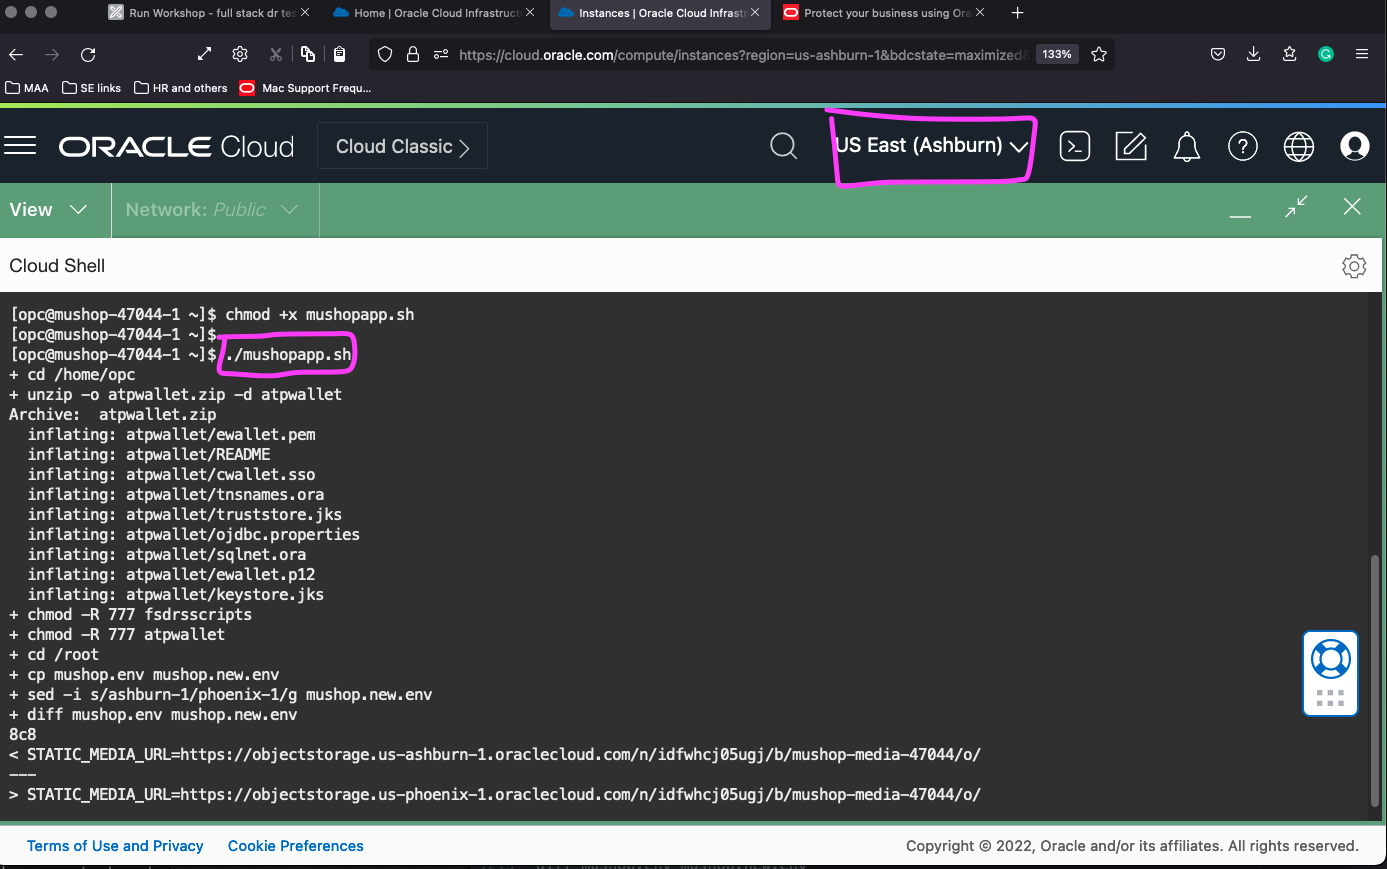
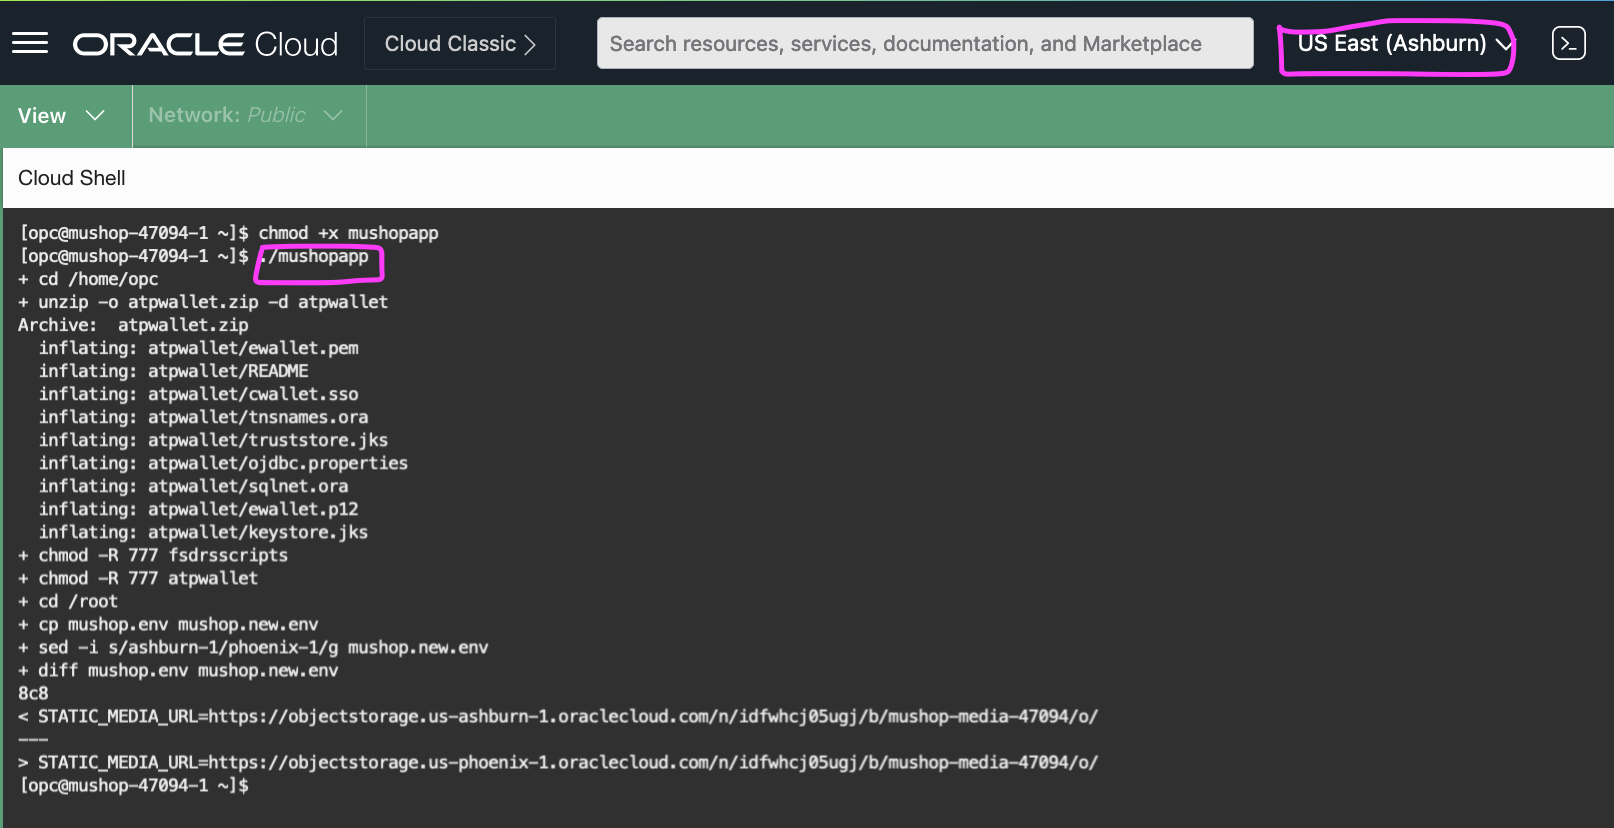
FSDRS 01st Sep
FSDRS 01st Sep

diff --git a/oci-fullstackdrs/pre-switchover/pre-switchover.md b/oci-fullstackdrs/pre-switchover/pre-switchover.md
@@ -1,16 +1,16 @@
 # **Prepare the environments for using the Full Stack DR Service**
 
-## Introduction
+## Introduction:
 
-In this lab, we will download Autonomous Database Wallet and the prepare the MuShop application virtual machines which are required to work with Full Stack DR Service
+In this lab, download Autonomous Database Wallet and prepare the MuShop application virtual machines, which are required to work with Full Stack DR Service
 
 Estimated Lab Time: 10 Minutes
 
-Watch the video below for a quick walk through of the lab
+Watch the video below for a quick walk-through of the lab.
 
 [](youtube:6Dp49VXqjtQ)
 
-### Objectives
+### Objectives:
 
 - Download Autonomous Database Wallet using Cloud Shell and transfer the Wallet to application VM instances.
 - Connect to application VM instances and create application environment files
@@ -21,12 +21,12 @@ Watch the video below for a quick walk through of the lab
 
 1. Login into OCI Console with your provided Credentials. Primary region should be **Ashburn**.
 
-  ![](./images/ashburn-region.png " ")
+  ![ashburn console](./images/ashburn-region.png " ")
 
 2. Open the **Cloud Shell** using the icon next to the region.  If you get a policy error, ensure you have chosen the correct compartment which was assigned to you.
 
-  ![](./images/cloud-shell.png)
-  ![](./images/cloud-shell-1.png)
+  ![open cloud shell](./images/cloud-shell.png)
+  ![open cloud shell](./images/cloud-shell-1.png)
 
   The Cloud Shell opens after a few seconds and shows the **prompt**.
 
@@ -34,21 +34,21 @@ Watch the video below for a quick walk through of the lab
 
    From the Hamburger menu, select **Oracle Database**, then **Autonomous Transaction Processing**.
 
-  ![](./images/atp-menu.png)
+  ![ATP menu](./images/atp-menu.png)
 
   You should be able to see an ATP database, similar to below. Make sure who change to the compartment which was assigned to you.
 
-  ![](./images/atp-database.png)
+  ![ATP database](./images/atp-database.png)
 
   Click the ATP database which should have like **"MuShopDB-XXXXX"** and in the Autonomous Database Information tab, copy the OCID of the ATP database and keep it safe. This is required for downloading the wallet in the next step.
 
-  ![](./images/atp-ocid.png)
+  ![ATP OCID](./images/atp-ocid.png)
 
 4. Download the ATP Wallet for this lab using the Cloud Shell. Switch to the first tab of your browser, where Cloud Shell was initially opened. In case if the Cloud Shell got disconnected, reconnect it again.
 
    You can maximize the Cloud Shell view and restore it as your requirements. For better viewing, you can use maximize option.
 
-   ![](./images/cloud-max.png)
+   ![Cloud Shell Maximize](./images/cloud-max.png)
 
    **Make sure to modify the ATP database OCID for your database in the below command.You should replace the OCID after --autonomous-database-id  with your values which was captured in Step 3**
 
@@ -58,15 +58,15 @@ Watch the video below for a quick walk through of the lab
 
     Copy the command and execute in Cloud Shell prompt.You should be able to see the Wallet file which was downloaded. Verify that using the list command ls -ltr as provided in the screenshot.
 
-   ![](./images/atp-wallet-cs.png)
+   ![ATP Wallet](./images/atp-wallet-cs.png)
 
-5. Download the private key for the Oracle Cloudworld LiveLab using the below command in the Cloud Shell.
+5. Download the private key for connecting to MuShop compute VM's using the below command in the Cloud Shell.
 
     ````
     <copy>wget http://bit.ly/mushopll</copy>
     ````
 
-    ![](./images/mushopll-key.png)
+    ![Mushop privatekey](./images/mushopll-key.png)
 
 6. Change the permission of the private key to `0600` in in the Cloud Shell
 
@@ -76,13 +76,13 @@ Watch the video below for a quick walk through of the lab
 
 7. Use the other tab of the browser, From the Hamburger menu, select **Compute**, then **Instances**. Verify the region as **Ashburn**
 
-    ![](./images/compute-navigate.png)
+    ![Compute navigation](./images/compute-navigate.png)
 
     Gather the Public IP from the two MuShop application instances. **mushop-xxxxx-0  -- Node 0** and **mushop-xxxxx-1  -- Node 1**
 
-    ![](./images/compute-publicip.png)
+    ![Copy publicip](./images/compute-publicip.png)
 
-8. Scp (Secure copy) the ATP Wallet to MuShop Application compute instances (both Node 0 and Node 1)
+8. Scp (Secure copy) the ATP Wallet to MuShop Application compute instances (both mushop-xxxxx-0 and mushop-xxxxx-1 )
 
     ````
     <copy>scp -i mushopll atpwallet.zip opc@publicipnode0:/home/opc</copy>
@@ -94,9 +94,9 @@ Watch the video below for a quick walk through of the lab
 
 Replace `publicipnode0` and `publicipnode1` with the public IP address of both mushop-xxxxx-0 and mushop-xxxxx-1 respectively in the scp commands.
 
-   Execute the scp commands in the cloud shell and while it prompts for confirmation key in as yes. Make sure the ATP Wallet is transferred successfully to both MuShop Applicaiton nodes.
+   Execute the scp commands in the cloud shell and while it prompts for confirmation key in as yes. Make sure the ATP Wallet is transferred successfully to both MuShop Application nodes.
 
-   ![](./images/wallet-compute.png)
+   ![Wallet copytovm](./images/wallet-compute.png)
 
 ## Task 2: Connect to application VM instances and customize the application environment files
 
@@ -107,27 +107,28 @@ Replace `publicipnode0` and `publicipnode1` with the public IP address of both m
     ````
    Once its connected, use ls -ltr command in the shell. You should be able to see the atpwallet.zip file which we transferred in previous step.
 
-   ![](./images/compute-node0.png)
+   ![list atp wallet](./images/compute-node0.png)
 
 2.  Download the script to run custom changes as part of MuShop application requirement
 
     ````
-    <copy>wget http://bit.ly/mushopapp.sh</copy>
+    <copy>wget http://bit.ly/mushopapp</copy>
     ````
+    ![get mushop script](./images/mushopll-node0.png)
 
-3. Provide execute permission for the mushopapp.sh script in /hom/opc directory. 
+3. Provide execute permission for the mushopapp script in /home/opc directory. 
 
     ````
-    <copy>chmod +x mushopapp.sh</copy>
+    <copy>chmod +x mushopapp</copy>
      ````
 
-4.  Execute the mushoapp.sh script
+4.  Execute the mushopapp script
 
     ````
-    <copy>./mushopapp.sh</copy>
+    <copy>./mushopapp</copy>
     ````
 
-    ![](./images/exec-mushapp-node0.png)
+    ![run mushop script](./images/exec-mushapp-node0.png)
 
 5. Connect to MuShop App VM mushop-xxxxx-1, replace `publicipnode1` with the public IP address of mushop-xxxxx-1. Refer task 1.7 to get the public IP address of mushop-xxxxx-1.
 
@@ -136,30 +137,31 @@ Replace `publicipnode0` and `publicipnode1` with the public IP address of both m
     ````
    Once its connected, use ls -ltr command in the shell. You should be able to see the atpwallet.zip file which we transferred in previous step.
 
-   ![](./images/compute-node1.png)
+   ![list atp wallet](./images/compute-node1.png)
 
 2.  Download the script to run custom changes as part of MuShop application requirement
 
     ````
-    <copy>wget http://bit.ly/mushopapp.sh</copy>
+    <copy>wget http://bit.ly/mushopapp</copy>
     ````
+    ![get mushop script](./images/mushopll-node1.png)
 
-3. Provide execute permission for the mushopapp.sh script in /hom/opc directory. 
+3. Provide execute permission for the mushopapp script in /home/opc directory. 
 
     ````
-    <copy>chmod +x mushopapp.sh</copy>
+    <copy>chmod +x mushopapp</copy>
      ````
 
-4.  Execute the mushoapp.sh script
+4.  Execute the mushopapp script
 
     ````
-    <copy>./mushopapp.sh</copy>
+    <copy>./mushopapp</copy>
     ````
 
-    ![](./images/exec-mushapp-node1.png)
+    ![run mushop script](./images/exec-mushapp-node1.png)
 
 
-This concludes this Lab 1. Now you can move to Lab 2.
+You may now **proceed to the next lab**.
 
 ## Acknowledgements
 

diff --git a/oci-fullstackdrs/drpg-setup/drpg-setup.md b/oci-fullstackdrs/drpg-setup/drpg-setup.md
@@ -2,7 +2,7 @@
 
 ## Introduction
 
-In this lab, we will Create and Associate Disaster Recovery Protection Groups (DRPG). Ashburn is primary region and Phoenix is standby region.
+In this lab, we will Create and Associate Disaster Recovery Protection Groups (DRPG). Ashburn is a primary region, and Phoenix is the standby region.
 
 Estimated Lab Time: 5 Minutes
 
@@ -15,90 +15,87 @@ Watch the video below for a quick walk through of the lab.
 - Create DRPG in Ashburn and Phoenix regions.
 - Associate Ashburn DRPG as primary and Phoenix DRPG as Standby
 
+## Task 1: Create DRPG in Ashburn and Phoenix regions
 
+1. Login into OCI Console with your provided Credentials. The primary region should be **Ashburn**.
 
-## Task 1: Create DRPG in Ashburn and Phoenix regions.
+  ![Ashburn OCI Console](./images/ashburn-region.png)
 
-1. Login into OCI Console with your provided Credentials. Primary region should be **Ashburn**.
+  Open another browser tab and then select region as **Phoenix** (Standby Region)
 
-  ![](./images/ashburn-region.png)
+  ![Phoenix OCI Console](./images/phoenix-region.png)
 
-  Open another browser tab and select region as **Phoenix** (Standby Region)
+2. Select **Migration and Disaster Recovery** from the Hamburger menu, then **Disaster Recovery Protection Groups**. Verify the region in **Ashburn**
 
-  ![](./images/phoenix-region.png)
+  ![DRPG from ashburn](./images/ashburn-drpgpage.png)
 
-2.From the Hamburger menu, select **Migration and Disaster Recovery**, then **Disaster Recovery Protection Groups**.Verify the region in **Ashburn**
+3. Select **Migration and Disaster Recovery** from the Hamburger menu, then **Disaster Recovery Protection Groups**. Verify the region in **Phoenix**
 
-  ![](./images/ashburn-drpgpage.png)
+  ![DRPG from phoenix](./images/phoenix-drpgpage.png)
 
-3.From the Hamburger menu, select **Migration and Disaster Recovery**, then **Disaster Recovery Protection Groups**.Verify the region in **Phoenix**
+4. You will land up at the Disaster Recovery Protection group home page; make sure to have two tabs opened for Ashburn and Phoenix region.
 
-  ![](./images/phoenix-drpgpage.png)
-
-4.You will land up in the Disaster Recovery Protection group home page, make sure to have two tabs opened for Ashburn and Phoenix region.
-
-  ![](./images/ashburn-drpg.png)
-  ![](./images/phoenix-drpg.png)
+  ![DRPG landing page](./images/ashburn-drpg.png)
+  ![DRPG landing page](./images/phoenix-drpg.png)
 
 5. Create DRPG in the Ashburn region. Select Create DR Protection group in the Ashburn region browser tab and follow the below instructions.
-   
+
 - Enter name as **mushop-ashburn**
 - Select the compartment assigned to you
-- In the object storage bucket, use the drop down option and select **mushop-xxxxx** (mushop-12345)
+- In the object storage bucket, use the drop-down option and select **mushop-xxxxx** (mushop-12345)  ( Don't select mushop-media-xxxxx bucket)
 - In role, leave it as non configured
 - Ignore add member
 - Verify and hit create
 
-  ![](./images/ashburn-drpgcreate.png)
+  ![create drpg](./images/ashburn-drpgcreate.png)
 
-Navigate back to DR Protection group page, the state of DRPG will change from creating to active in few seconds.
+Navigate back to the DR Protection group page; the state of DRPG will change from creating to active in a few seconds.
 
-  ![](./images/ashburn-drpgactive.png)
+  ![drpg status](./images/ashburn-drpgactive.png)
 
 6. Create DRPG in the Phoenix region. Select Create DR Protection group in the Phoenix region browser tab and follow the below instructions.
 
 - Enter name as **mushop-phoenix**
 - Select the compartment assigned to you
-- In the object storage bucket, use the drop down option and select **mushop-xxxxx** (mushop-12345)
+- In the object storage bucket, use the drop-down option and select **mushop-xxxxx** (mushop-12345) ( Don't select mushop-media-xxxxx bucket)
 - In role, leave it as non configured
 - Ignore add member
 - Verify and hit create
 
-  ![](./images/phoenix-drpgcreate.png)
+  ![create drpg](./images/phoenix-drpgcreate.png)
 
-Navigate back to DR Protection group page, the state of DRPG will change from creating to active in few seconds.
+Navigate back to the DR Protection group page; the state of DRPG will change from creating to active in a few seconds.
 
-  ![](./images/phoenix-drpgactive.png)
+  ![drpg status](./images/phoenix-drpgactive.png)
 
-## Task 2:Associate Ashburn DRPG as primary and Phoenix DRPG as Standby
+## Task 2: Associate Ashburn DRPG as primary and Phoenix DRPG as Standby
 
-1.From the Ashburn region OCI console, select **mushop-ashburn** DRPG. Select **Associate** button 
+1. From the Ashburn region OCI console, select **mushop-Ashburn** DRPG. Select the **Associate** button
 
-  ![](./images/drpg-associate.png)
+  ![drpg associate](./images/drpg-associate.png)
 
 - Select Role as **Primary**
-- Select Peer Region as **US West (Phoenix)**, 
-- Select Peer DR Protection group in compartment (change assigned compartment if required), you should select **mushop-phoenix**
-- Verfiy and associate
+- Select Peer Region as **US West (Phoenix)**,
+- Select Peer DR Protection group in the compartment (change assigned compartment if required); you should select **mushop-phoenix**
+- Verify and associate
 
-  ![](./images/drpg-associate-1.png)
+  ![drpg associate confirm](./images/drpg-associate-1.png)
 
+  **mushop-ashburn** DRPG will change to *Updating* State
 
- **mushop-ashburn** DRPG will change to *Updating* state 
- 
-  ![](./images/drpg-associate-updating.png)
+  ![drpg associate update](./images/drpg-associate-updating.png)
 
- Navigate back to DR Protection group home page.You should be able to see DRPG **mushop-ashburn** state as *Active*, role as *Primary*, peer region as *US West (Phoenix)*
+  Navigate back to the DR Protection group home page. You should be able to see DRPG **mushop-ashburn** state as *Active*, role as *Primary*, peer region as *US West (Phoenix)*
 
-   ![](./images/drpg-status-ashburn.png)
+  ![drpg associate done](./images/drpg-status-ashburn.png)
 
-2.From the Phoenix region OCI console, navigate to DR Protection group home page.You should be able to see DRPG **mushop-phoenix** state as *Active*, role as *Standby*, peer region as *US East (Ashburn)*
+2.From the Phoenix region OCI console, navigate to the DR Protection group home page. You should be able to see DRPG **mushop-phoenix** state as *Active*, role as *Standby*, peer region as *US East (Ashburn)*
 
-   ![](./images/drpg-status-phoenix.png)
+   ![drpg associate status](./images/drpg-status-phoenix.png)
 
-Now, we have associated **mushop-ashburn** as *Primary DRPG* and **mushop-phoenix**  as *Standby DRPG*
+   Now, we have associated **mushop-Ashburn** as *Primary DRPG* and **mushop-phoenix**  as *Standby DRPG*
 
-This concludes Lab 2. Now you can move to Lab 3.
+   You may now **proceed to the next lab**.
 
 ## Acknowledgements
 

diff --git a/oci-fullstackdrs/switchover-prechecks/switchover-prechecks.md b/oci-fullstackdrs/switchover-prechecks/switchover-prechecks.md
@@ -91,6 +91,13 @@ Refer the **Troubleshooting tips** section for known failures and correction act
 
       ![](./images/mushop-app.png)
 
+  In case if you see error **Error: Request failed with status code 500** while navigating the mushop website, reboot **both** compute VM's (mushop-xxxxx-0 and mushop-xxxx-1).
+  
+  Navigate to Compute from OCI Console, select the three dots in the respective compute instances and reboot the VM's. 
+
+     ![](./images/reboot-vm.png)
+
+  After couple of minutes, refresh the browser and re-verify.
 
 3. Let us break the MuShop Application to create an outage. 
 
